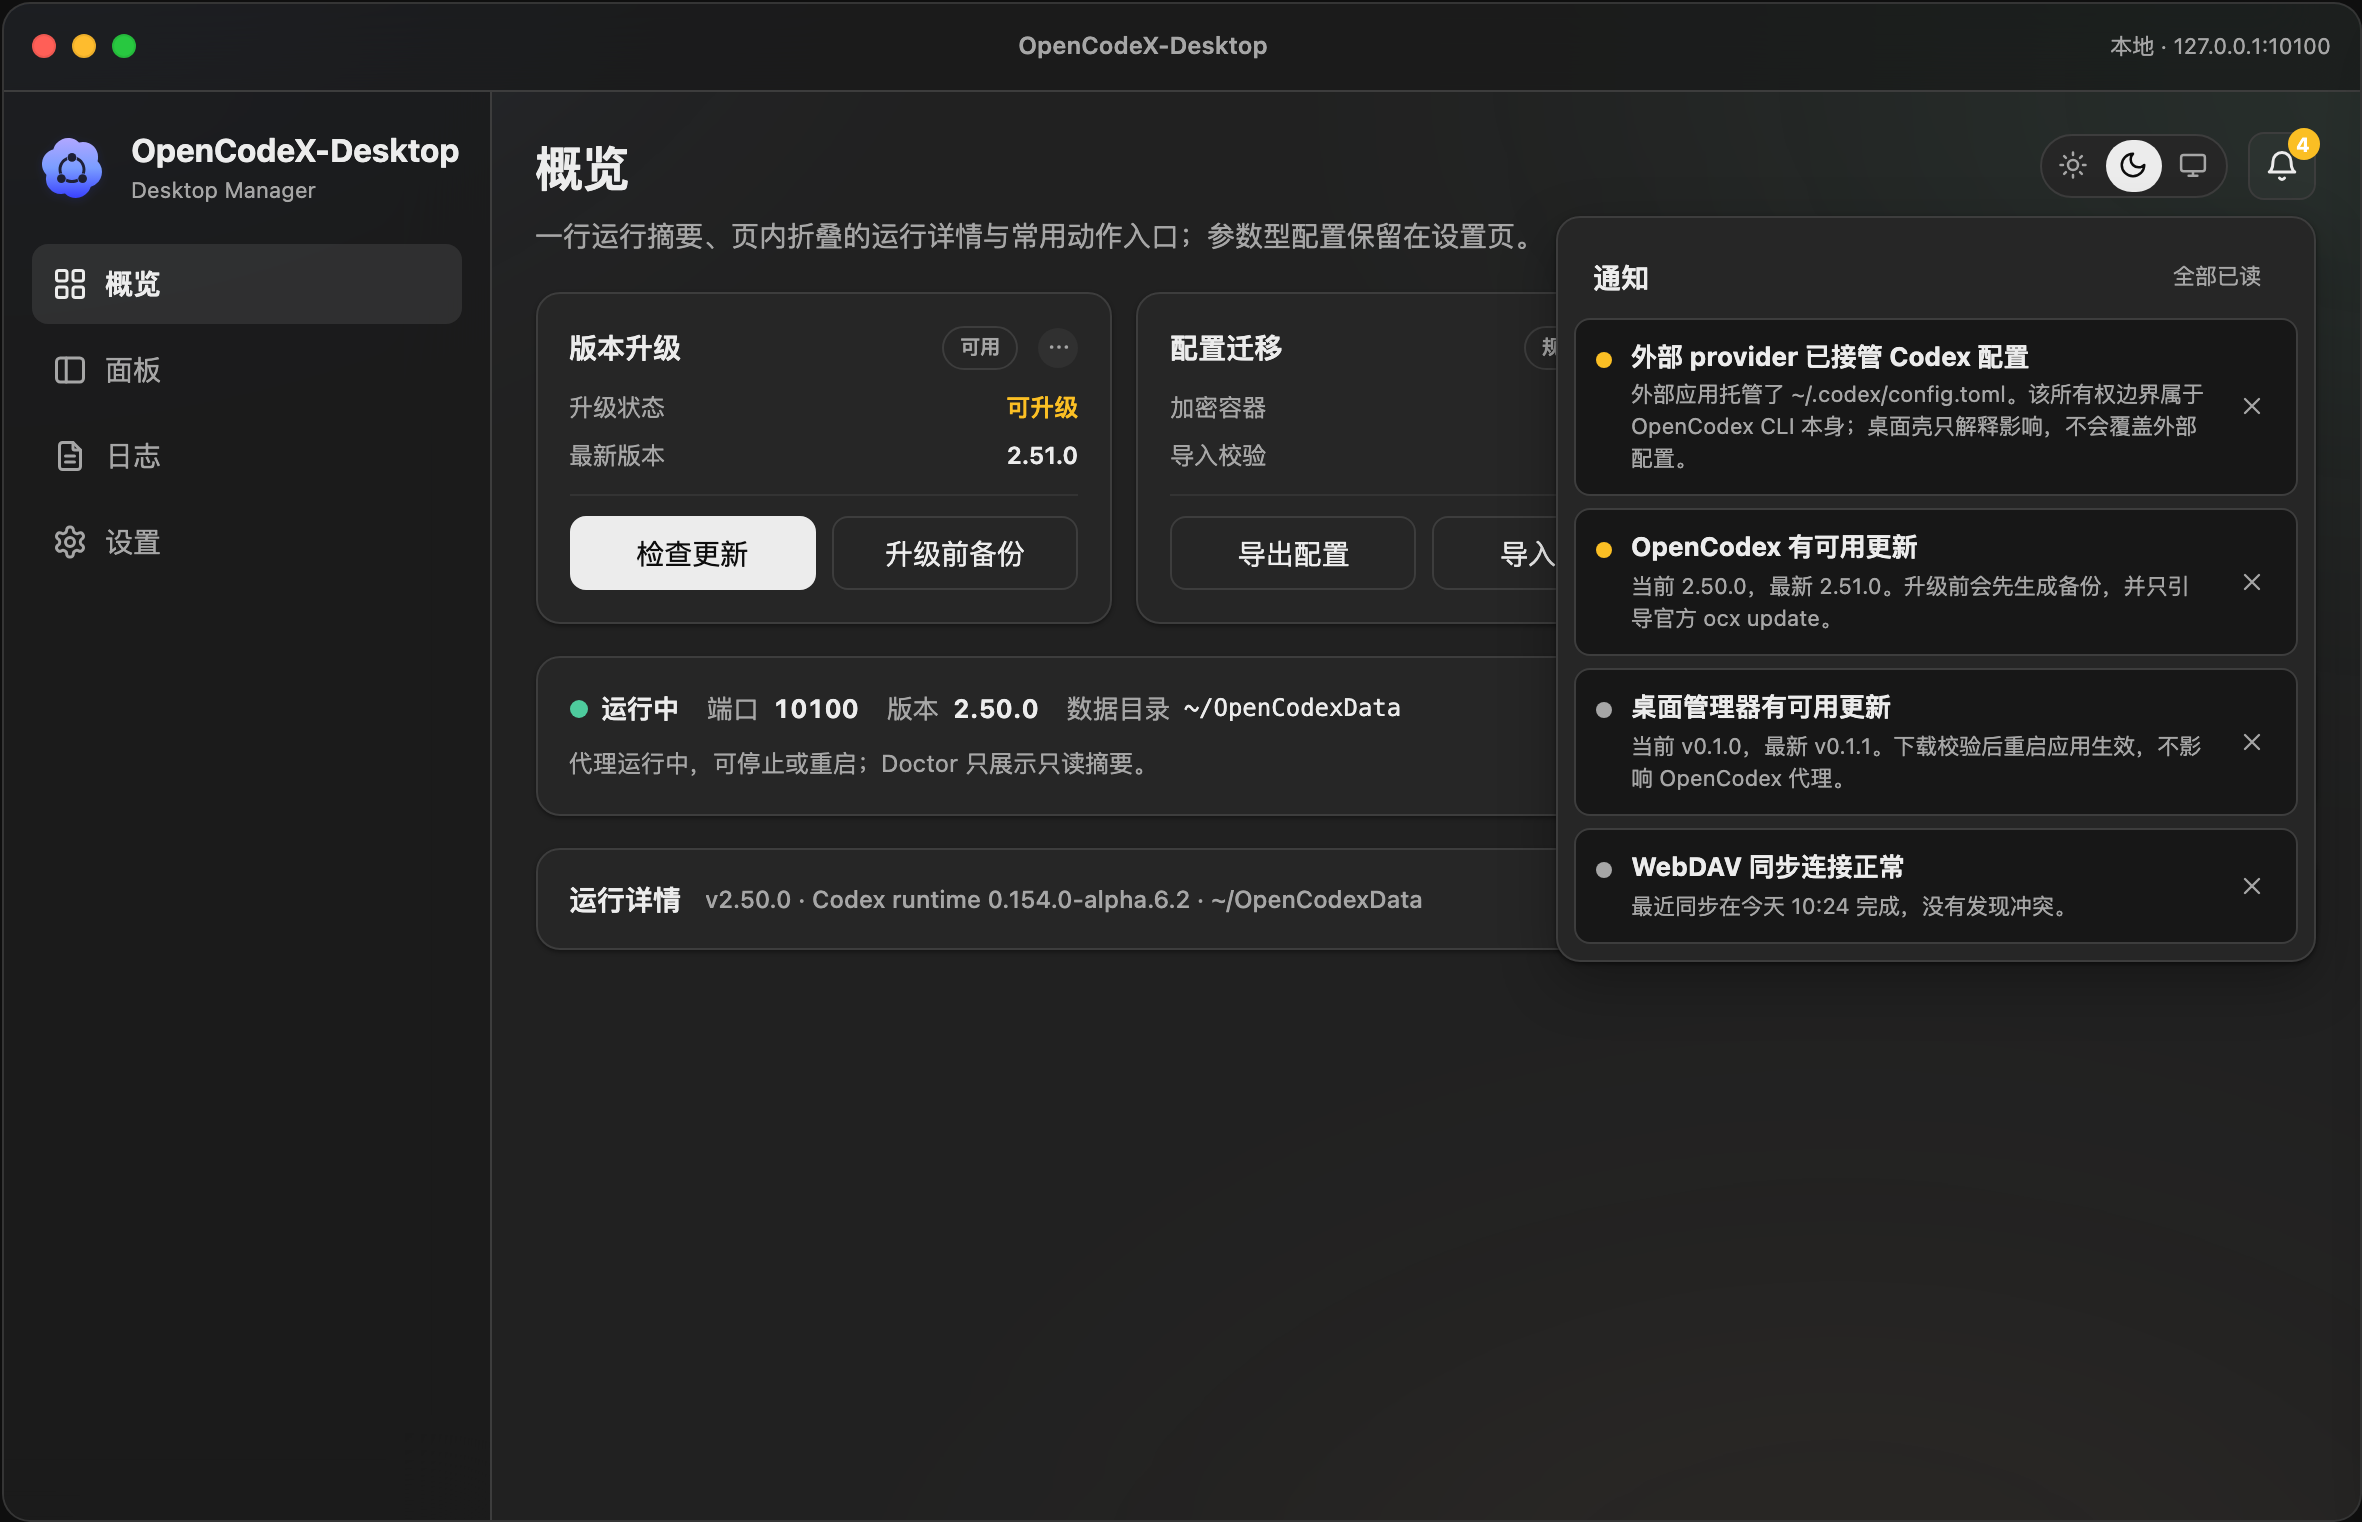
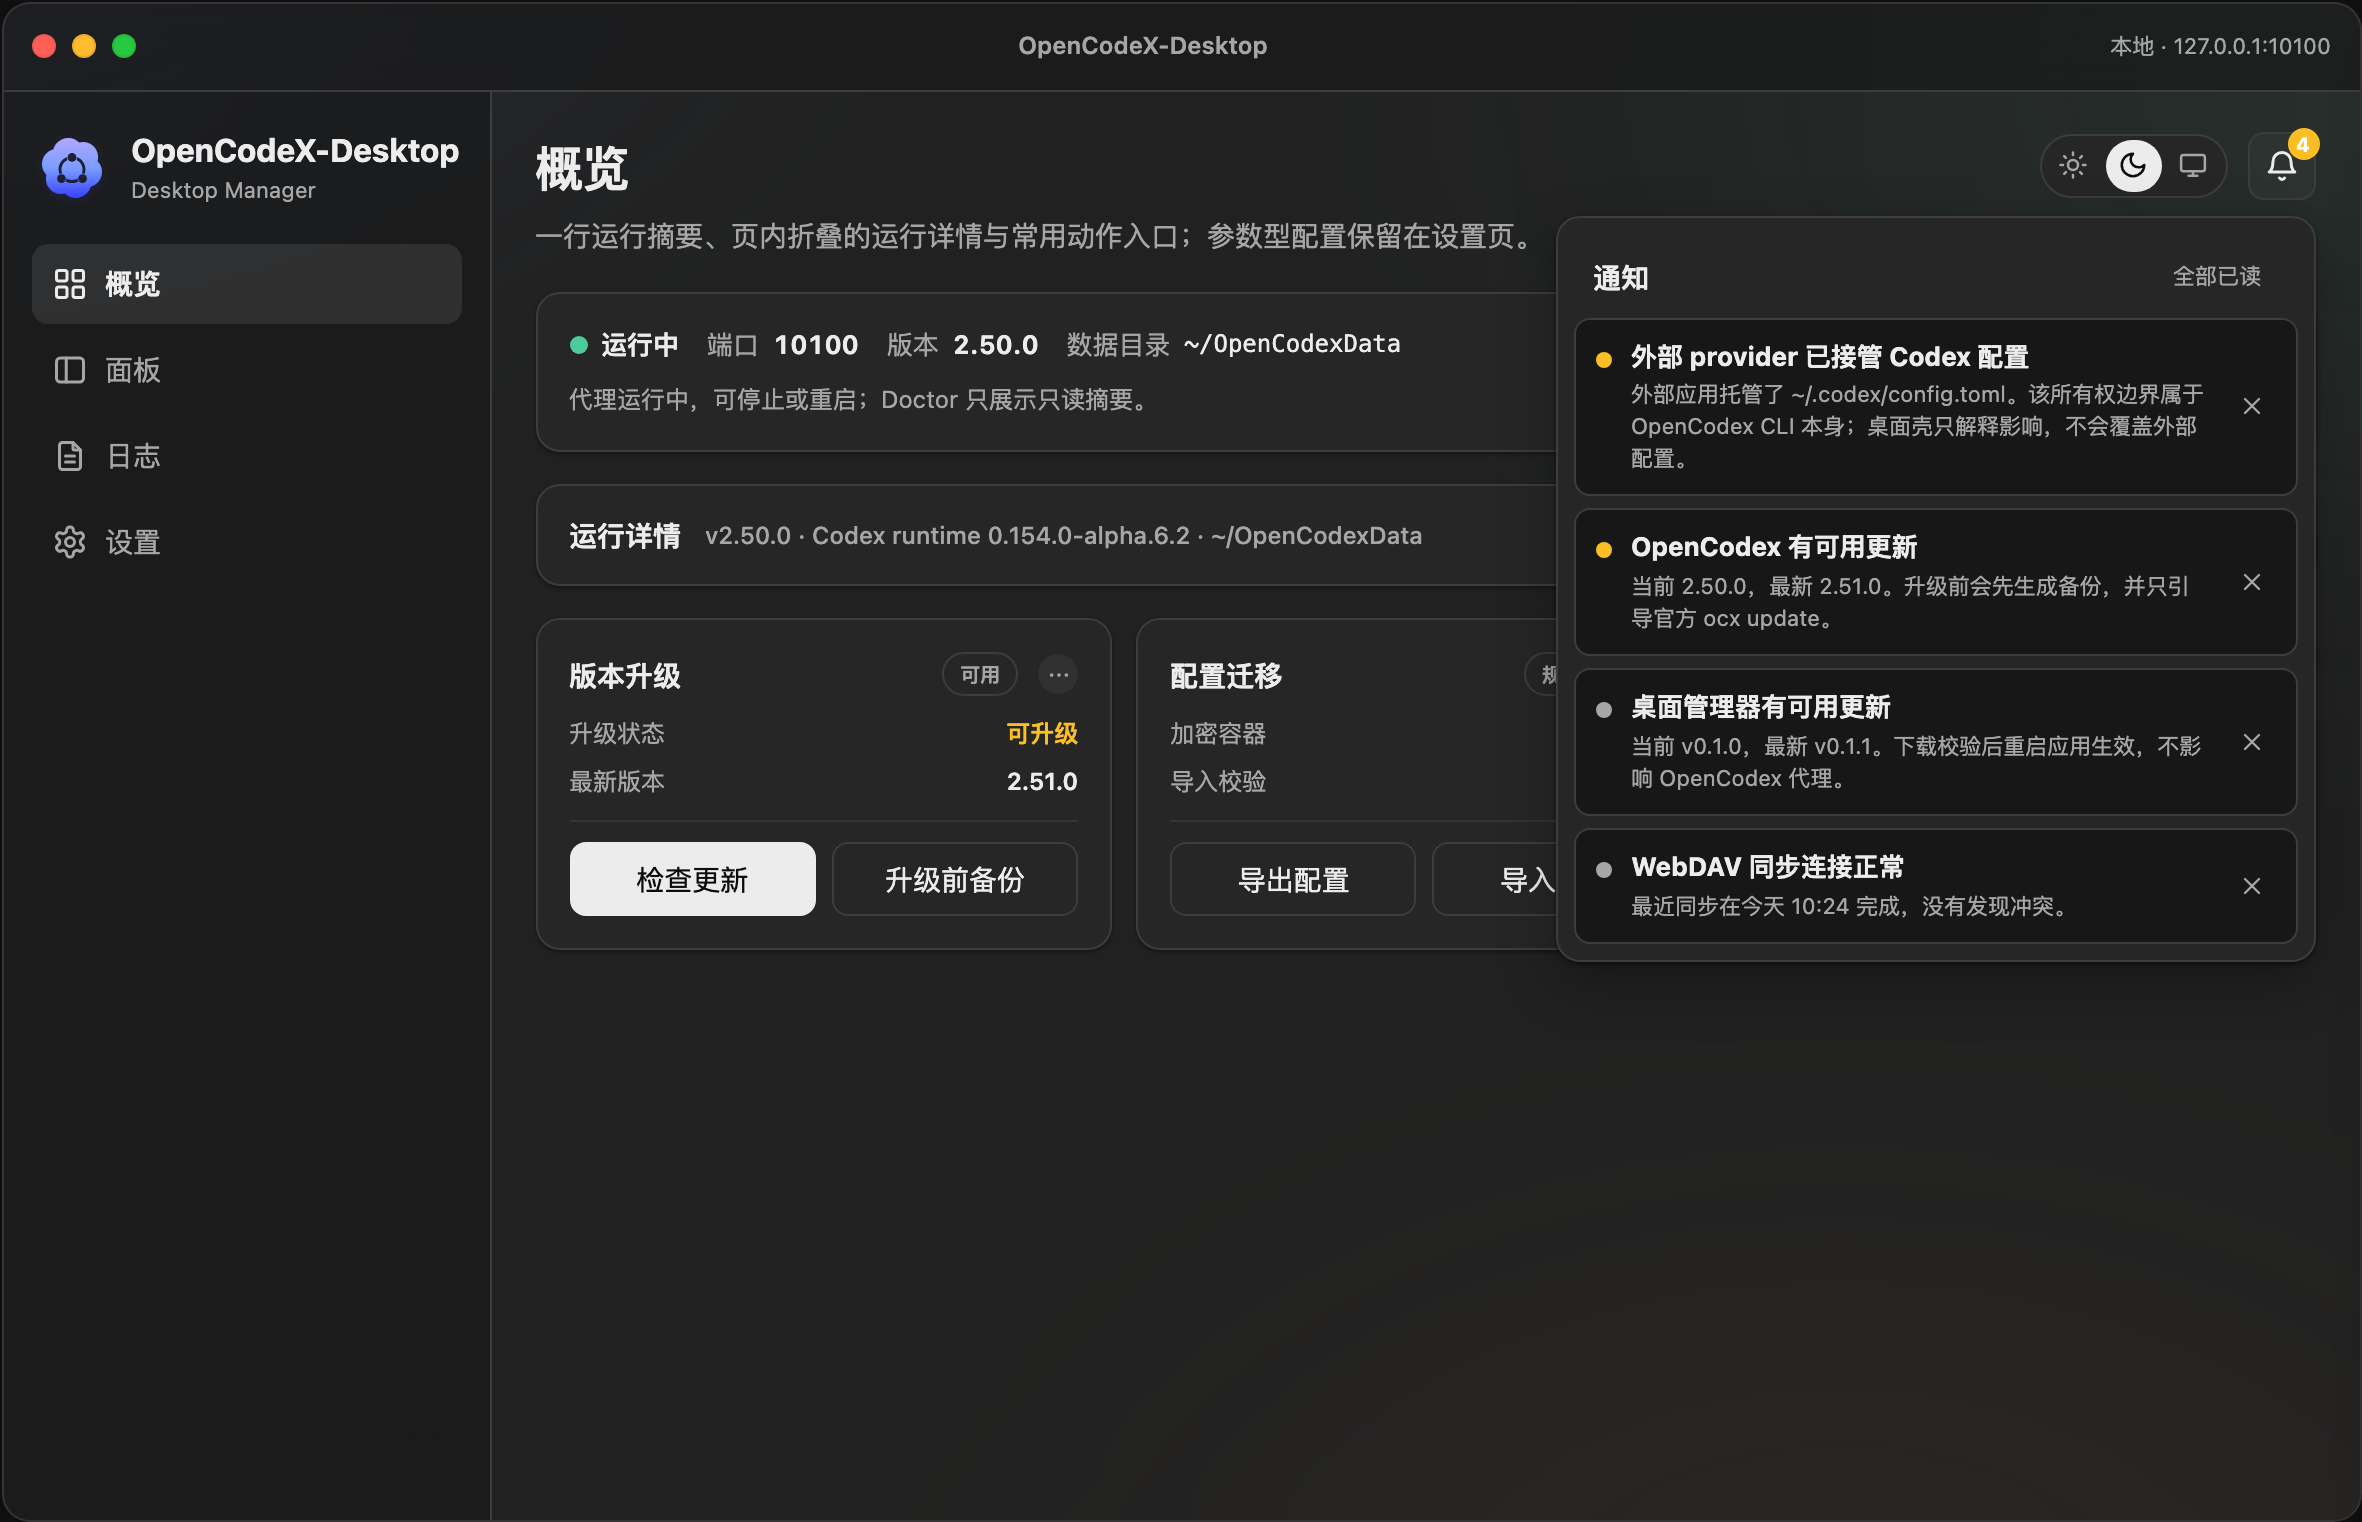
docs(设计): 记录高窗口最近事件区定稿并重出截图
- design-qa 追加 H2 决策、触发条件、位置和实测表。
- state-and-flows 补充最近事件与诊断中心的职责边界。
- README 的原型验证范围同步纳入最近事件摘要。
- 现行与对比截图按新布局重出。

diff --git a/docs/04-项目资料/03-项目协作资料/01-协作包/2026-09-12-OpenCodex桌面管理器需求协作/05-原型设计/文档/state-and-flows.md b/docs/04-项目资料/03-项目协作资料/01-协作包/2026-09-12-OpenCodex桌面管理器需求协作/05-原型设计/文档/state-and-flows.md
@@ -182,3 +182,5 @@
 8. 用户可见文案统一用**「数据目录」**（原「统一数据根 / 数据根」），正式文档术语见 QA-16。
 
 运行详情交互：点击折叠条在「展开 / 收起」间切换；收起时折叠条自身显示 `v2.50.0 · Codex runtime … · ~/OpenCodexData`，展开后按 3 列网格列出健康、PID / 进程、Runtime、可执行文件、数据目录与 `OPENCODEX_HOME`，并提供「选择数据目录 / 打开日志目录」入口。窄窗口下网格降为 2 列。
+
+高窗口「最近事件」：运行详情展开时，在其后显示 3 条状态相关摘要，随 normal / risk / error 状态切换；不复制完整日志，只承担高窗口余量感知。用户手动收起详情后同步隐藏；完整日志、Doctor 与通知历史仍集中在「诊断中心」。

diff --git a/docs/04-项目资料/03-项目协作资料/01-协作包/2026-09-12-OpenCodex桌面管理器需求协作/05-原型设计/README.md b/docs/04-项目资料/03-项目协作资料/01-协作包/2026-09-12-OpenCodex桌面管理器需求协作/05-原型设计/README.md
@@ -74,6 +74,7 @@
 
 - OpenCodex 发现与安装状态。
 - 统一数据根与 `OPENCODEX_HOME`。
+- 概览运行摘要、折叠详情、最近事件摘要与三张模块卡。
 - 启动、停止、重启。
 - 健康、at-risk、外部 provider 接管、不可达、启动失败。
 - 最近错误摘要。
